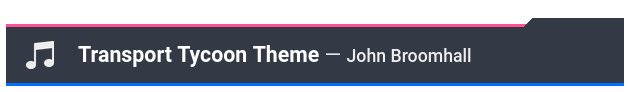
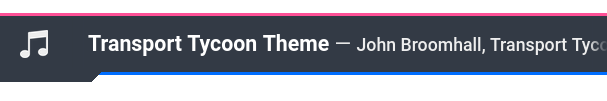
added more features

diff --git a/style.css b/style.css
@@ -10,6 +10,11 @@ body {
     font-size: 16pt;
     font-family: Roboto;
     padding-top: 16px;
+    color: #EEE;
+/*     background-color: #0F0; */
+    background-color: rgba(0, 0, 0, 0);
+    margin: 0px auto;
+    overflow: hidden;
 }
 
 scrollbox {
@@ -67,12 +72,12 @@ musicbox::before {
     content: "　";
     width: 120px;
     height: 10px;
-    right: 100px;
-    top: -13px;
+    left: 100px;
+    bottom: -52px;
     position: relative;
     margin: 0 -100px;
-    float: right;
-    background: linear-gradient(135deg, transparent 20px, var(--player-back) 0);
+    float: left;
+    background: linear-gradient(-45deg, transparent 20px, var(--player-back) 0);
 }
 
 labelbox, labelboy {
@@ -92,7 +97,7 @@ labelboy {
 leftflap  { background: linear-gradient(to left, transparent, var(--player-back)); }
 rightflap { background: linear-gradient(to right, transparent, var(--player-back)); }
 
-h4 {
+h4.musicbox {
     display: inline-block;
     color: #FFF;
     line-height: 0;
@@ -101,9 +106,9 @@ h4 {
     margin: 0;
 }
 
-h5 {
+h5.musicbox {
     display: inline-block;
-    color: #EEEEEE;
+    color: #EEE;
     line-height: 0;
     font-weight: 500;
     height: var(--player-height);
@@ -112,4 +117,63 @@ h5 {
 
 hsep {
     color: #E6E6E6;
+}
+
+docbox::before {
+    content: "　";
+    width: 120px;
+    height: 10px;
+    right: 100px;
+    top: -10px;
+    position: relative;
+    margin: 0 -100px;
+    float: right;
+    background: linear-gradient(135deg, transparent 20px, var(--player-back) 0);
+}
+
+cosmeticbox {
+    display: block;
+    padding: 0.2em 1.2em 1em 1.2em;
+    overflow: scroll;
+    height: 75vh;
+}
+
+docbox {
+    display: block;
+    margin: 160px 0 0 0;
+    padding: 0;
+    background: var(--player-back);
+    border-top: 3px solid #ff5096;
+    border-bottom: 3px solid #006eff;
+}
+
+docbox h4 {
+    color: #FFF;
+}
+
+div#plist {
+    display: block;
+}
+
+td.pmark {
+    width: 2em;
+    text-align: right;
+}
+
+td.pmark, td.title, td.artist {
+    padding: 0.1em 0.4em;
+}
+
+td.title {
+    color: #FFF;
+    font-weight: 700;
+}
+
+songlist {
+    display: grid;
+    grid-template-columns: 2em auto auto;
+}
+
+songlist pmark, songlist titel, songlist artist {
+    display: inline-block;
 }

diff --git a/player.js b/player.js
@@ -20,6 +20,14 @@ let AUDIO = undefined;
 let songlist = [];// list of object: {f:"file.mp3",t:"Title",a:"Artist"}
 let songindex = 0;
 
+function fmod(num, dem) {
+    let n = num % dem
+    while (n < 0) {
+        n += dem
+    }
+    return n
+}
+
 function nextsong() {
     let songinfo = songlist[songindex]
 
@@ -30,7 +38,12 @@ function nextsong() {
         AUDIO.play()
     }
 
+    let prevsongindex = fmod(songindex - 1, songlist.length)
+
+    document.getElementById("pmark"+prevsongindex).innerText = ''+(prevsongindex + 1)
+    document.getElementById("pmark"+songindex).innerText = '▶'
     updateText(songinfo.t, songinfo.a)
+
     songindex = (songindex + 1) % songlist.length
 }
 
@@ -38,8 +51,23 @@ function init() {
     loadJSON(qd.p[0], (e) => {
         songlist = JSON.parse(e)
 
+        console.log("Playlist:")
+        songlist.forEach((v,i)=>{
+            console.log(i+1, `${v.t} — ${v.a} (file:${v.f})`)
+        })
 
-        console.log(songlist)
+        if (qd.c != undefined && qd.c[0] >= 1) {
+            songindex = qd.c[0] - 1
+            console.log("Playback will begin from the entry #"+(songindex+1))
+        }
+
+        // fill up the visible part of the playlist
+        let out = '<table>'
+        songlist.forEach((v,i)=>{
+            out += `<tr><td class="pmark" id="pmark${i}">${i+1}</td><td class="title">${v.t}</td><td class="artist">${v.a}</td></tr>`
+        })
+        out += '</table>'
+        document.getElementById("plist").innerHTML = out
 
         nextsong()
         AUDIO.play()

diff --git a/index.html b/index.html
@@ -13,9 +13,9 @@
         <labelboxbox>
         <labelbox>
             <scrollbox>
-                <h4 id="songtitle">4′33″</h4>
+                <h4 class="musicbox" id="songtitle">4′33″</h4>
                 <hsep>&mdash;</hsep>
-                <h5 id="songartist">John Cage</h5>
+                <h5 class="musicbox" id="songartist">John Cage</h5>
             </scrollbox>
         </labelbox>
         <labelboy>
@@ -25,6 +25,20 @@
         </labelboy>
         </labelboxbox>
     </musicbox>
+    <docbox>
+    <cosmeticbox>
+        <h4>Synopsis</h4>
+        <ul>
+        <li>localhost/twitchmusic/?p=your_playlist.json</li>
+        <li>localhost/twitchmusic/?p=your_playlist.json&amp;c=123</li>
+        </ul>
+        <p><strong>p</strong> specifies the playlist to play from.</p>
+        <p><strong>c</strong> is an optional argument to specify which song on the playlist, indexed from 1, should be played.</p>
+        <hr />
+        <h4>Playlist</h4>
+        <div id="plist"></div>
+    </cosmeticbox>
+    </docbox>
     <script>
 let qd = {}
 if (location.search) location.search.substr(1).split`&`.forEach(item => {let [k,v] = item.split`=`; v = v && decodeURIComponent(v); (qd[k] = qd[k] || []).push(v)})
